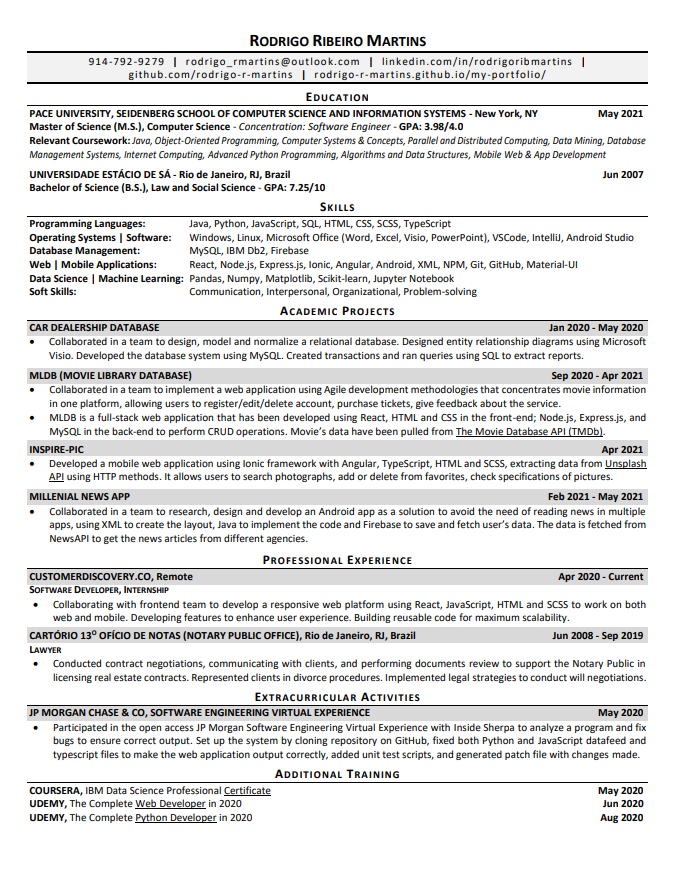
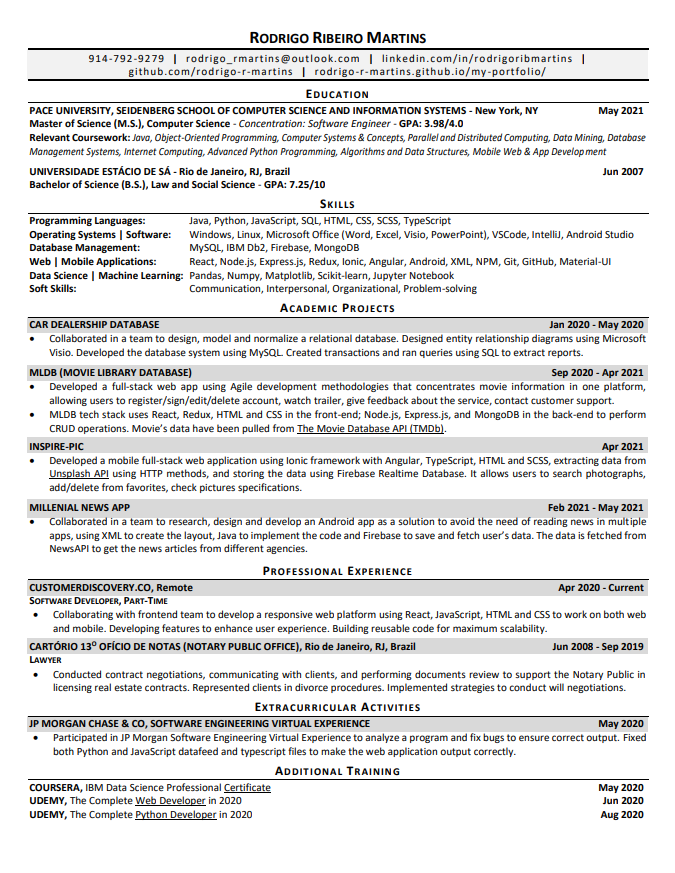
Updating data

diff --git a/src/utils/resumeData.js b/src/utils/resumeData.js
@@ -56,7 +56,8 @@ const resumeData = {
       "HTML",
       "CSS",
       "SQL",
-      "XML"
+      "XML",
+      "TypeScript",
     ],
     webMobileApplications: [
       "React",
@@ -65,19 +66,21 @@ const resumeData = {
       "Android",
       "NodeJS",
       "ExpressJS",
-      "GitHub"
+      "Redux",
+      "GitHub",
     ],
     dataScienceMl: [
       "Pandas",
       "Numpy",
       "Matplotlib",
       "Scikit-learn",
-      "Jupyter Notebook"
+      "Jupyter Notebook",
     ],
     databaseCloud: [
       "MySQL",
       "IBM Db2",
-      "Firebase"
+      "Firebase",
+      "MongoDB",
     ],
   },
   education: [
@@ -163,7 +166,7 @@ const resumeData = {
   projects: [
     {
       name: "Inspire-Pic",
-      description: "Developed a mobile web application designed to photography lovers that allow them to look for photographs to inspire them capturing the moment, fetching the data from Unsplash API to get the photographs. The favorite photography will have the specifications, such as exposure time, aperture and iso, to help users to take the best picture.",
+      description: "Developed a mobile full-stack web application designed to photography lovers that allow them to look for photographs to inspire them capturing the perfect moment. The data (photographies) is fetched from Unsplash API. The photography will have the specifications, such as exposure time, aperture and iso, to help users to take the best picture. Users can navigate as guest or sign up to the app where they will be able to add photographies to favorite and they will be saved in their portfolio. Firebase was used as the database to save the data.",
       techStack: [
         "Ionic",
         "Angular",
@@ -171,7 +174,7 @@ const resumeData = {
         "HTML",
         "SCSS",
         "Firebase",
-        "RestAPI"
+        "RestAPI",
       ],
       image: InspirePic_img,
       github: "https://github.com/rodrigo-r-martins/inspire-pic",
@@ -179,20 +182,21 @@ const resumeData = {
     },
     {
       name: "MLDB",
-      description: "Collaborated in a team to implement a full-stack web application using Agile development methodologies that focus on movie information in one platform, and where users can register to the website, purchase tickets, and give feedback about the service. Movies data has been pulled from The Movie Database API (TMDb)",
+      description: "Collaborated in a team on both front and back end to implement a full-stack web application using Agile development methodologies that focus on movie information in one platform, and where users can register to the website, find tickets to purchase, watch movies trailer, give feedback about the service and contact customer support. MongoDB is the database used to store the data. Movies data has been pulled from The Movie Database API (TMDb)",
       techStack: [
         "React",
+        "Redux",
         "JavaScript",
         "HTML",
-        "CSS",
+        "SCSS",
         "NodeJS",
         "ExpressJS",
-        "MySQL",
-        "RestAPI"
+        "MongoDB",
+        "RestAPI",
       ],
       image: MLDB_img,
       github: "https://github.com/rodrigo-r-martins/MLDB",
-      link: ""
+      link: "https://movielibrarydb.herokuapp.com/"
     },
     {
       name: "Portfolio",
@@ -269,21 +273,22 @@ const resumeData = {
       github: "https://github.com/rodrigo-r-martins/react-blog",
       link: "https://react-blog-2687d.web.app/"
     },
-    {
-      name: "Robofriends",
-      description: "Developed an interactive web application using ReactJS that allow users to search friends among robots and their cards will be displayed dynamically. Extracted images of robots from Robohash website and the data from JSON Placeholder Rest API.",
-      techStack: [
-        "React",
-        "JavaScript",
-        "HTML",
-        "CSS",
-        "Firebase",
-        "RestAPI"
-      ],
-      image: Robofriends_img,
-      github: "https://github.com/rodrigo-r-martins/robofriends",
-      link: ""
-    },
+    // {
+    //   name: "Robofriends",
+    //   description: "Developed an interactive web application using ReactJS that allow users to search friends among robots and their cards will be displayed dynamically. Extracted images of robots from Robohash website and the data from JSON Placeholder Rest API.",
+    //   techStack: [
+    //     "React",
+    //     "JavaScript",
+    //     "Redux",
+    //     "HTML",
+    //     "CSS",
+    //     "Firebase",
+    //     "RestAPI"
+    //   ],
+    //   image: Robofriends_img,
+    //   github: "https://github.com/rodrigo-r-martins/robofriends",
+    //   link: "https://github.com/rodrigo-r-martins/robofriends",
+    // },
     {
       name: "Tic Tac Toe",
       description: "Developed an interactive Tic Tac Toe game using ReactJS, JavaScript, HTML and CSS.",
@@ -298,18 +303,18 @@ const resumeData = {
       github: "https://github.com/rodrigo-r-martins/react-tic_tac_toe",
       link: "https://tic-tac-toe-fc24b.web.app/"
     },
-    {
-      name: "Ultra Corporation",
-      description: "Developed a responsive website using Vanilla JavaScript, HTML and CSS.",
-      techStack: [
-        "JavaScript",
-        "HTML",
-        "CSS"
-      ],
-      image: UltraCorp_img,
-      github: "",
-      link: ""
-    },
+    // {
+    //   name: "Ultra Corporation",
+    //   description: "Developed a responsive website using Vanilla JavaScript, HTML and CSS.",
+    //   techStack: [
+    //     "JavaScript",
+    //     "HTML",
+    //     "CSS"
+    //   ],
+    //   image: UltraCorp_img,
+    //   github: "",
+    //   link: ""
+    // },
   ]
 }
 
